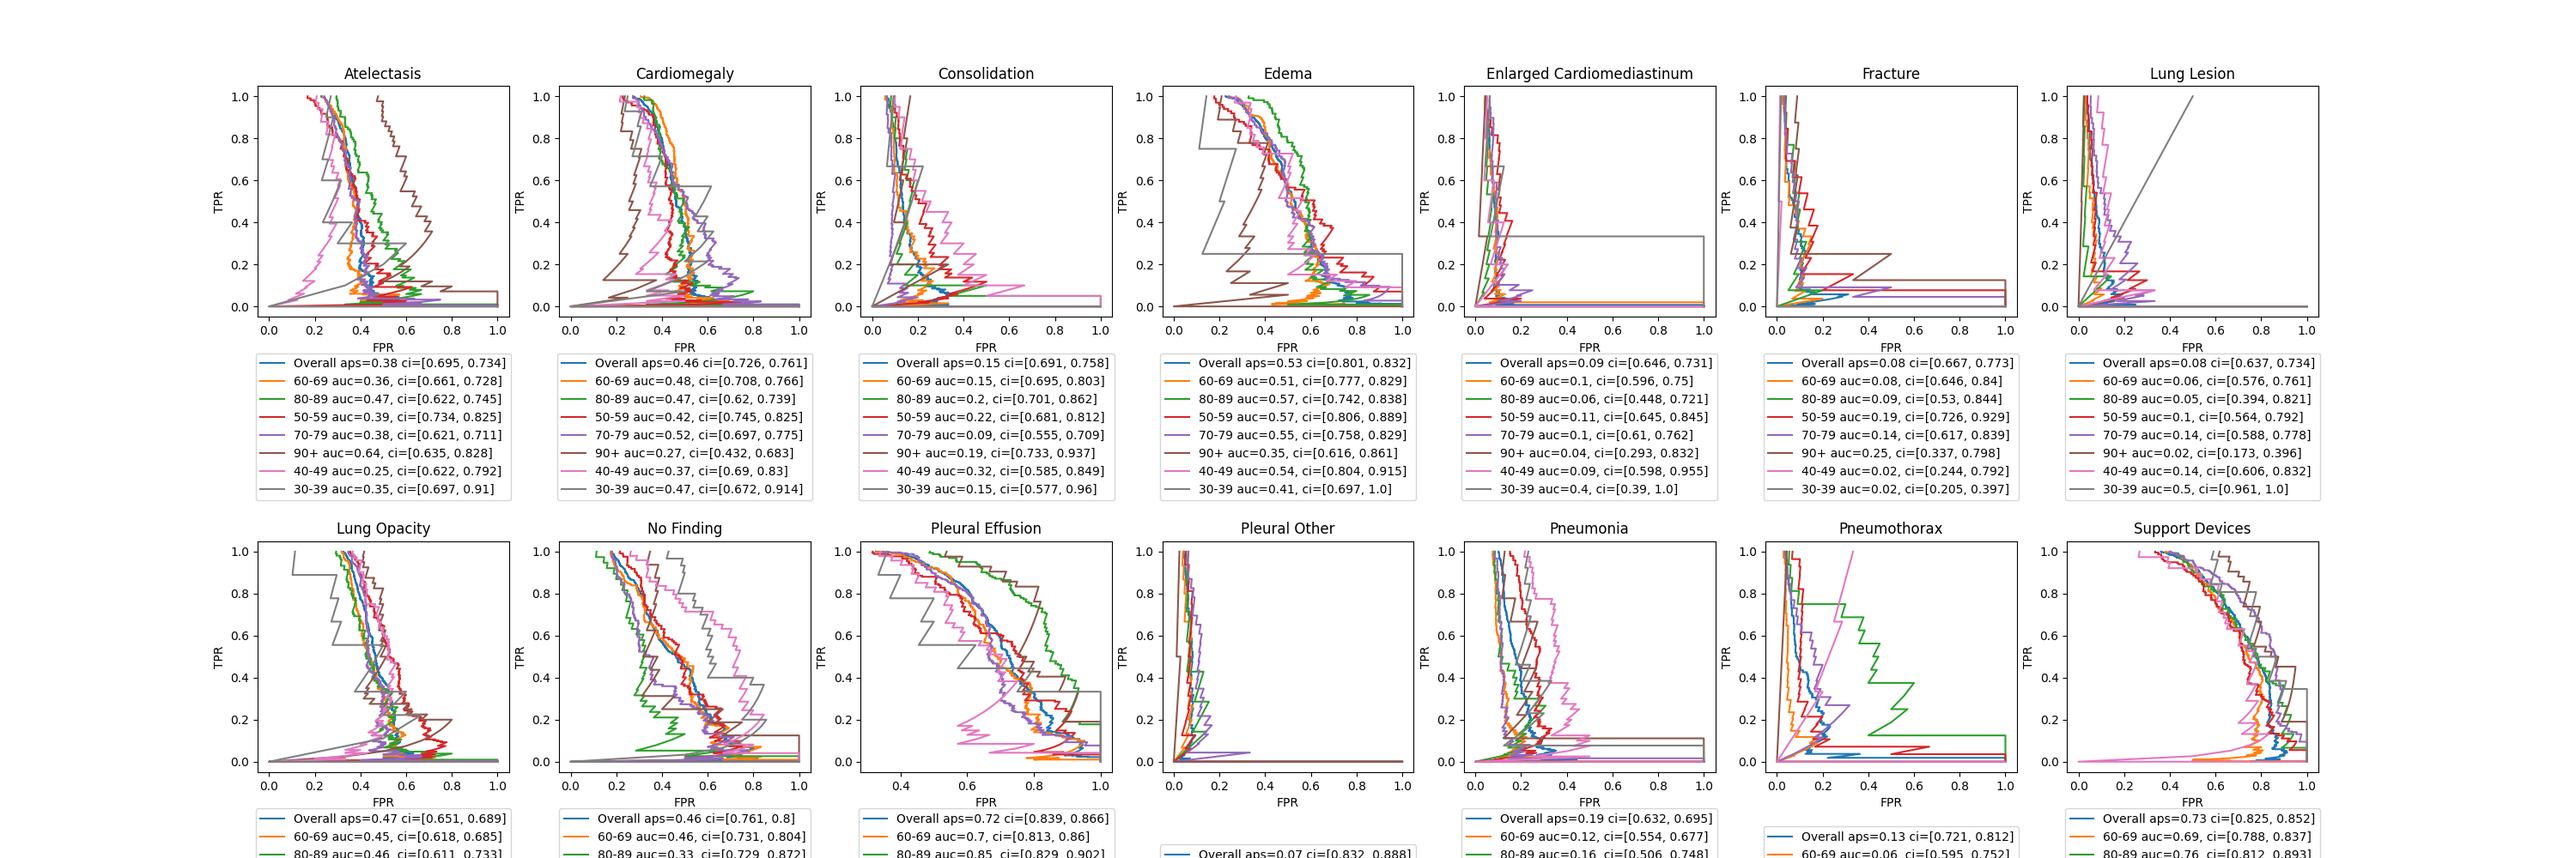
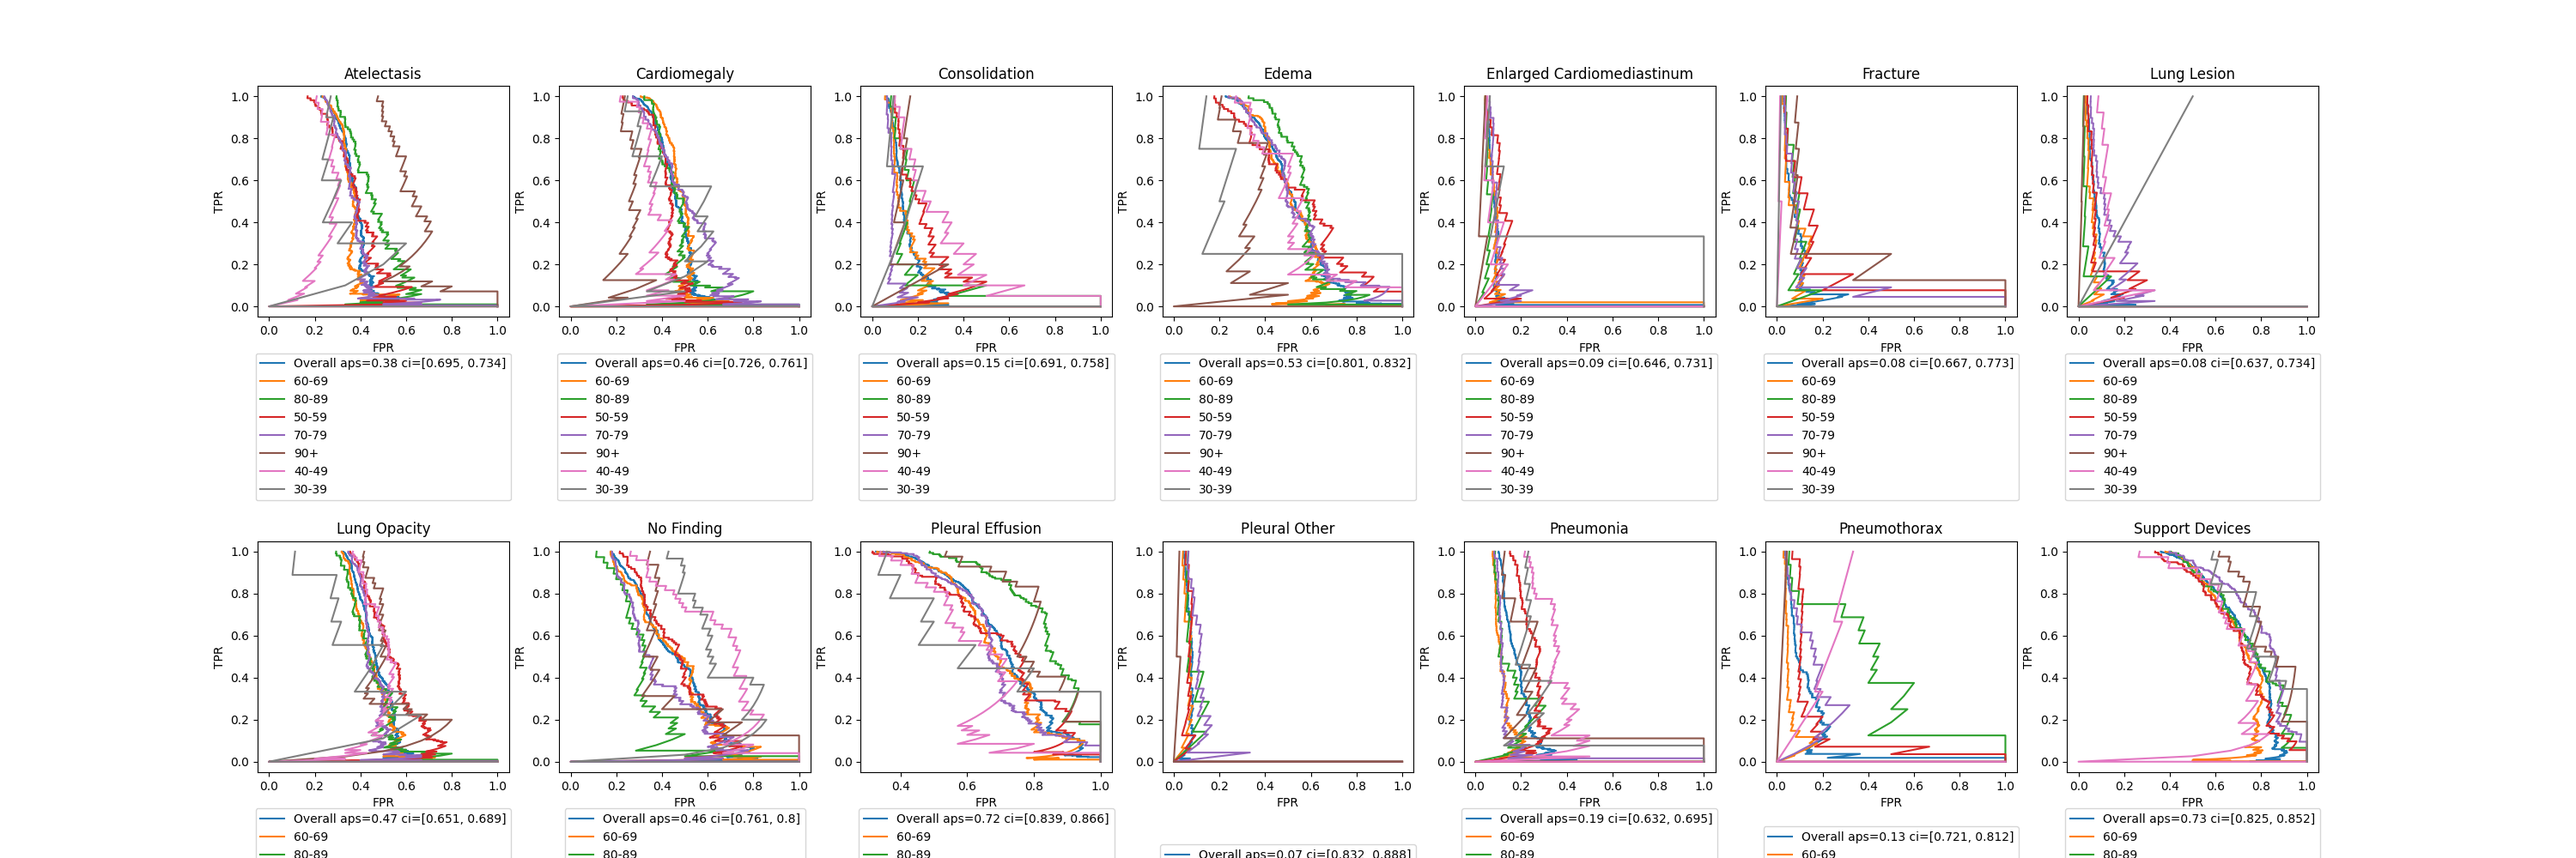
added readme

diff --git a/final_repo/analysis/final_analysis.py b/final_repo/analysis/final_analysis.py
@@ -243,10 +243,11 @@ def generate_CI(y_true, y_pred):
     return ci_str
 
 # Calculate and plot ROC
-def calc_stratified_roc(df, strata, labels, dest_path):
+def calc_stratified_roc(df, strata, labels, dest_path, legend_loc=(0.5, -0.82)):
     fpr = {}
     tpr = {}
     auc = {}
+    results = []
     fig, ax = plt.subplots(nrows=2, ncols=7, figsize=(30, 10))
     plt.subplots_adjust(left=0.1,
                     bottom=0.1,
@@ -281,27 +282,30 @@ def calc_stratified_roc(df, strata, labels, dest_path):
             tpr[str(category) + '_' + lab] = ttpr
             auc[str(category) + '_' + lab] = tauc
             tci = generate_CI(ytrue, ypred)
-            ax[x, y].plot(tfpr, ttpr, label=f'{str(category)} auc={round(tauc, 2)}, ci={tci}')
+            ax[x, y].plot(tfpr, ttpr, label=f'{str(category)}')
             ax[x, y].title.set_text(lab)
-            ax[x, y].legend(loc = 8, bbox_to_anchor=(0.5, -0.82))
+            ax[x, y].legend(loc = 8, bbox_to_anchor=legend_loc)
             ax[x, y].set_xlabel('FPR')
             ax[x, y].set_ylabel('TPR')
-            
+            # Save the information
+            results.append({'Label' : lab, 'Strata' : category, 'ROCAUC' : tauc, 'CI_ROC' : tci})
 
     plt.savefig(dest_path)
+    return pd.DataFrame(results)
 
 # calculate and plot AUPRC
-def calc_stratified_prc(df, strata, labels, dest_path):
+def calc_stratified_prc(df, strata, labels, dest_path, legend_loc=(0.5, -0.82)):
     fpr = {}
     tpr = {}
     auc = {}
+    results = []
     fig, ax = plt.subplots(nrows=2, ncols=7, figsize=(30, 10))
     plt.subplots_adjust(left=0.1,
-                    bottom=0.1,
-                    right=0.9,
-                    top=0.9,
-                    hspace=0.97,
-                    wspace=0.2)
+                bottom=0.1,
+                right=0.9,
+                top=0.9,
+                hspace=0.97,
+                wspace=0.2)
     for i, lab in enumerate(labels):
         if i < 7:
             x = 0
@@ -329,12 +333,14 @@ def calc_stratified_prc(df, strata, labels, dest_path):
             tpr[str(category) + '_' + lab] = ttpr
             auc[str(category) + '_' + lab] = tauc
             tci = generate_CI(ytrue, ypred)
-            ax[x, y].plot(tfpr, ttpr, label=f'{str(category)} auc={round(tauc, 2)}, ci={tci}')
+            ax[x, y].plot(tfpr, ttpr, label=f'{str(category)}')
             ax[x, y].title.set_text(lab)
-            ax[x, y].legend(loc = 8, bbox_to_anchor=(0.5, -0.82))
+            ax[x, y].legend(loc = 8, bbox_to_anchor=legend_loc)
             ax[x, y].set_xlabel('FPR')
             ax[x, y].set_ylabel('TPR')
+            results.append({'Label' : lab, 'Strata' : category, 'PRAUC' : tauc, 'CI_PR' : tci})
     plt.savefig(dest_path)
+    return pd.DataFrame(results)
 
 def make_tabelone(df, labels, groupby, dest_path, latex=False):
     cols = list(labels)
@@ -347,6 +353,7 @@ def make_tabelone(df, labels, groupby, dest_path, latex=False):
 
 def distplots(df, labels, strata, dest_path):
     stratas = sorted(df[strata].unique())
+    print(stratas)
     fig, ax = plt.subplots(nrows=2, ncols=7, figsize=(45, 10))
     positions = [i for i in range(len(stratas))]
     for i, lab in enumerate(labels):
@@ -435,9 +442,12 @@ def stratify_icu(df, icu, metadata, labels, dest_path):
 
     # Generate plots
     icu_roc_dest_path = os.path.join(dest_path, 'icu_roc.png')
-    calc_stratified_roc(results_icu, 'study_in_icu', labels, icu_roc_dest_path)
+    roc_results = calc_stratified_roc(results_icu, 'study_in_icu', labels, icu_roc_dest_path)
     icu_pr_dest_path = os.path.join(dest_path, 'icu_pr.png')
-    calc_stratified_prc(results_icu, 'study_in_icu', labels, icu_pr_dest_path)
+    pr_results = calc_stratified_prc(results_icu, 'study_in_icu', labels, icu_pr_dest_path)
+
+    results = roc_results.merge(pr_results, on=['Label', 'Strata'])
+
 
     # Create tableone
     tableone_dest = os.path.join(dest_path, 'icu_tab1.csv')
@@ -446,6 +456,8 @@ def stratify_icu(df, icu, metadata, labels, dest_path):
     # Distplot
     distplot_dest = os.path.join(dest_path, 'icu_dist_plot.png')
     distplots(results_icu, labels, 'study_in_icu', distplot_dest)
+
+    return results
 
 def stratify_race(df, admissions, metadata, labels, dest_path):
     # bucket races. 
@@ -478,17 +490,21 @@ def stratify_race(df, admissions, metadata, labels, dest_path):
     df['race_bucket'] = df.apply(lambda row: label_races(row), axis=1)
     
     race_roc_dest = os.path.join(dest_path, 'race_roc.png')
-    calc_stratified_roc(df, 'race_bucket', labels, race_roc_dest)
+    roc_results = calc_stratified_roc(df, 'race_bucket', labels, race_roc_dest)
 
     race_pr_dest = os.path.join(dest_path, 'race_pr.png')
-    calc_stratified_prc(df, 'race_bucket', labels, race_pr_dest)
+    pr_results = calc_stratified_prc(df, 'race_bucket', labels, race_pr_dest)
 
     race_tableone_dest = os.path.join(dest_path, 'race_tableone.csv')
     make_tabelone(df, labels, 'race_bucket', race_tableone_dest, latex=True)
 
+    results = roc_results.merge(pr_results, on=['Label', 'Strata'])
+
     # Distplot
     distplot_dest = os.path.join(dest_path, 'race_dist_plot.png')
     distplots(df, labels, 'race_bucket', distplot_dest)
+
+    return results
 
 def stratify_insurance(df, admissions, metadata, labels, dest_path):
     metadata['StudyDate'] = pd.to_datetime(metadata['StudyDate'], format='%Y%m%d')
@@ -507,10 +523,13 @@ def stratify_insurance(df, admissions, metadata, labels, dest_path):
     assert df.shape[0] == orig_shape
 
     insurace_roc_dest = os.path.join(dest_path, 'insurance_roc.png')
-    calc_stratified_roc(df, 'insurance', labels, insurace_roc_dest)
+    roc_results = calc_stratified_roc(df, 'insurance', labels, insurace_roc_dest)
 
     insurace_pr_dest = os.path.join(dest_path, 'insurance_pr.png')
-    calc_stratified_prc(df, 'insurance', labels, insurace_pr_dest)
+    pr_results = calc_stratified_prc(df, 'insurance', labels, insurace_pr_dest)
+
+    results = roc_results.merge(pr_results, on=['Label', 'Strata'])
+
 
     insurance_tableone_dest = os.path.join(dest_path, 'insurance_tableone.csv')
     make_tabelone(df, labels, 'insurance', insurance_tableone_dest, latex=True)
@@ -518,6 +537,8 @@ def stratify_insurance(df, admissions, metadata, labels, dest_path):
     # Distplot
     distplot_dest = os.path.join(dest_path, 'insurace_dist_plot.png')
     distplots(df, labels, 'insurance', distplot_dest)
+
+    return results
 
 def stratify_sex(df, patients, labels, dest_path):
     orig_shape = df.shape[0]
@@ -529,13 +550,19 @@ def stratify_sex(df, patients, labels, dest_path):
     sex_pr_dest = os.path.join(dest_path, 'sex_pr.png')
     sex_tableone_path = os.path.join(dest_path, 'sex_tableone.csv')
 
-    calc_stratified_roc(df, 'gender', labels, sex_roc_dest)
-    calc_stratified_prc(df, 'gender', labels, sex_pr_dest)
+    roc_results = calc_stratified_roc(df, 'gender', labels, sex_roc_dest)
+    pr_results = calc_stratified_prc(df, 'gender', labels, sex_pr_dest)
+
+    results = roc_results.merge(pr_results, on=['Label', 'Strata'])
+
+
     make_tabelone(df, labels, 'gender', sex_tableone_path, latex=True) 
 
     # Distplot
     distplot_dest = os.path.join(dest_path, 'sex_dist_plot.png')
     distplots(df, labels, 'gender', distplot_dest)
+
+    return results
 
 def stratify_age(df, patients, labels, dest_path):
     #Generating age buckets
@@ -573,9 +600,14 @@ def stratify_age(df, patients, labels, dest_path):
     age_pr_dest = os.path.join(dest_path, 'age_pr.png')
     age_tableone_dest = os.path.join(dest_path, 'age_tableone.csv')
 
-    calc_stratified_roc(df, 'age_cohort', labels, age_roc_dest)
-    calc_stratified_prc(df, 'age_cohort', labels, age_pr_dest)
+    roc_results = calc_stratified_roc(df, 'age_cohort', labels, age_roc_dest)
+    pr_results = calc_stratified_prc(df, 'age_cohort', labels, age_pr_dest)
+
+    results = roc_results.merge(pr_results, on=['Label', 'Strata'])
+
     make_tabelone(df, labels, 'age_cohort', age_tableone_dest, latex=True)
+
+    return results
 
 
 # %%
@@ -598,11 +630,20 @@ def run_all(df, config, run_results_path, dest_path, labels):
             os.makedirs(path)
 
     run_analysis_overall(df.copy(), run_results_path, overall_dest, labels)
-    stratify_icu(df.copy(), icu.copy(), metadata.copy(), labels, icu_dest)
-    stratify_age(df.copy(), patients.copy(), labels, age_dest)
-    stratify_insurance(df.copy(), admissions.copy(), metadata.copy(), labels, insurance_dest)
-    stratify_race(df.copy(), admissions.copy(), metadata.copy(), labels, race_dest)
-    stratify_sex(df.copy(), patients.copy(), labels, sex_dest)
+    icu_results = stratify_icu(df.copy(), icu.copy(), metadata.copy(), labels, icu_dest)
+    age_results = stratify_age(df.copy(), patients.copy(), labels, age_dest)
+    insurance_results = stratify_insurance(df.copy(), admissions.copy(), metadata.copy(), labels, insurance_dest)
+    race_results = stratify_race(df.copy(), admissions.copy(), metadata.copy(), labels, race_dest)
+    sex_results = stratify_sex(df.copy(), patients.copy(), labels, sex_dest)
+
+    # Save results files.
+    results_path = 'results.csv'
+    icu_results.to_csv(os.path.join(icu_dest, results_path))
+    age_results.to_csv(os.path.join(age_dest, results_path))
+    insurance_results.to_csv(os.path.join(insurance_dest, results_path))
+    race_results.to_csv(os.path.join(race_dest, results_path))
+    sex_results.to_csv(os.path.join(sex_dest, results_path))
+
     
 
 # %%
@@ -617,6 +658,10 @@ if __name__ == '__main__':
     cyclical_results = config['CYCLICAL_RESULTS_PATH']
     
     results_baseline = pd.read_csv(os.path.join(baseline_results, 'results.csv'))
+    # Filter out laterals from baseline.
+    focal_did = results_focal['dicom_id'].unique()
+    results_baseline = results_baseline[results_baseline['dicom_id'].isin(focal_did)].reset_index(drop=True)
+
     results_focal = pd.read_csv(os.path.join(focal_results, 'results.csv'))
     result_cyclical = pd.read_csv(os.path.join(cyclical_results, 'results.csv'))
     
@@ -629,8 +674,6 @@ if __name__ == '__main__':
             counter+=1
             continue
         run_all(df.copy(), config, results_path, dest_path, labels)
-
-    
 
 # %%
 

diff --git a/README.md b/README.md
@@ -1,3 +1,23 @@
-# CS334FinalProject
+# ML Final Project
+**By Zach Zaiman, Mert Ozbay, Niki Vasan**
 
-Best project ever!
+### Introduction 
+This repository contains the code and files from our CS334 Machine Learning course final project. The goal of the project was to work collaboratively in teams to apply machine learning models to a real-world tasks. Our group chose to analyze the effect of confounding variables on a Convolutional Neural Network (CNN) designed to classify comorbidities in chest x-rays. We had four main deliverables: 
+1. Spotlight Presentation: 90 second elevator pitch to the class that motivates the premise behind our study
+2. Code Repository: Train, test, evaluate model and push code + relevant files to github repository 
+3. Final Presentation: 5 minute presentation explaining model design, evaluation and results
+4. Report: 10+ paged report detailing problem statement, relevant past research, methods, results and key findings of our project
+
+The abstract of our paper is stated below:
+> INSERT ABSTRACT 
+
+
+### Repo Structure 
+* **analysis**: contains for folders for each of the three models with evaluation plots for each strata and final script
+* **gradcams**: contains config file, training code and example gradcams (under `gradcams_out`)
+* **reports**: contains final presentation slide deck and final report 
+* **runs**: contains output directory for each CNN version trained (message authors for weights)
+* **trainlib**: contains training code, config file and data prep file
+
+### Spotlight Slide 
+> INSERT SLIDE 
